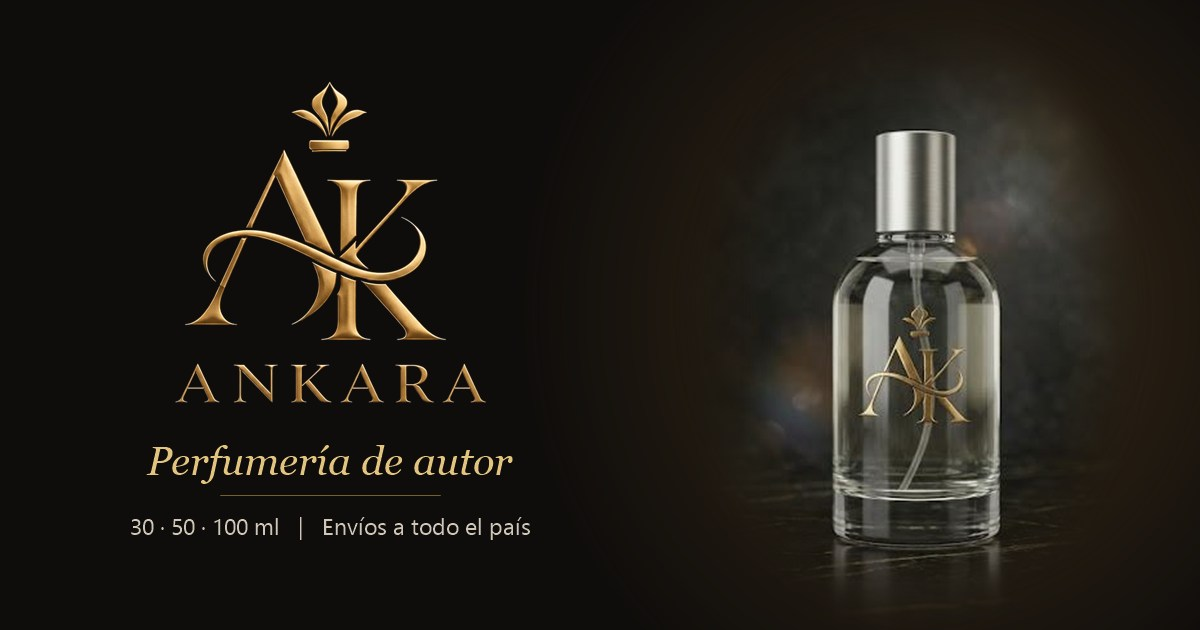
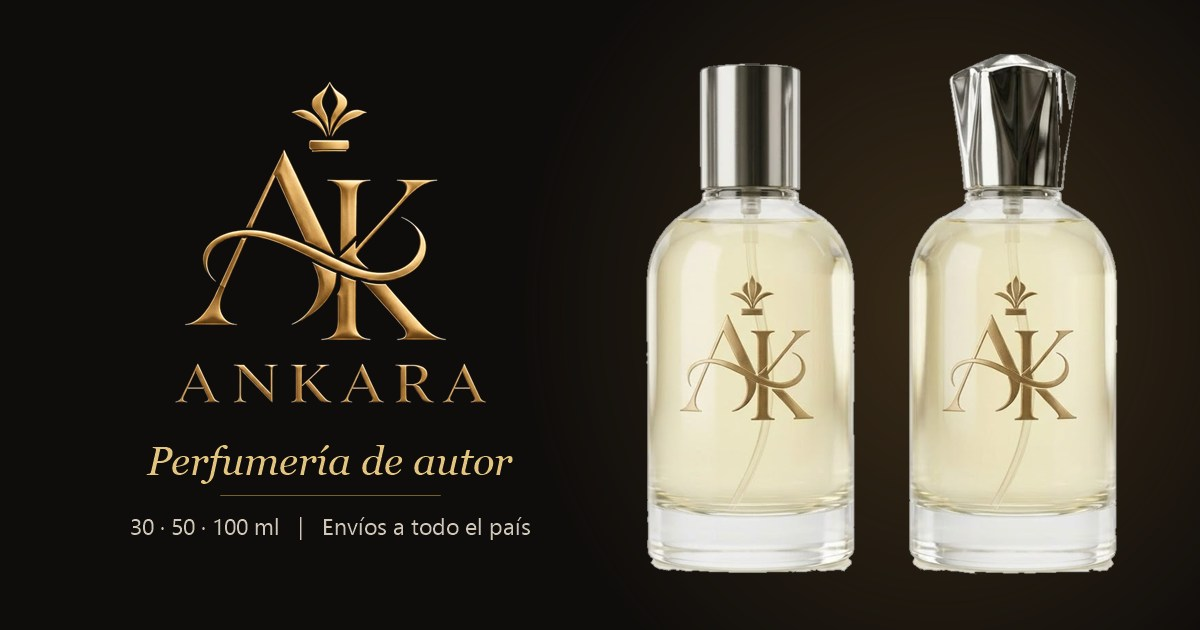
Frascos nuevos sin fondo y sin franja de beneficios ni lista de precios

Changed region(s): [[0.5242, 0.0603, 0.9558, 0.9349]]

diff --git a/src/app/app.html b/src/app/app.html
@@ -36,17 +36,8 @@
         </div>
       </div>
       <div class="hero-frasco">
-        <img src="img/frasco-ankara.jpg" alt="Frasco de perfume ANKARA" width="382" height="512" />
+        <img src="img/frascos-ankara.png" alt="Frascos de perfume ANKARA" width="725" height="790" />
       </div>
-    </div>
-  </section>
-
-  <section class="beneficios">
-    <div class="contenedor beneficios-grid">
-      <div><strong>Alta fijación</strong><span>Aromas que duran todo el día</span></div>
-      <div><strong>3 tamaños</strong><span>30 ml, 50 ml y 100 ml</span></div>
-      <div><strong>Envío nacional</strong><span>Recíbelo en la puerta de tu casa</span></div>
-      <div><strong>Asesoría</strong><span>Te ayudamos a elegir</span></div>
     </div>
   </section>
 
@@ -54,12 +45,6 @@
     <div class="contenedor">
       <p class="eyebrow">Nuestra colección</p>
       <h2>Fragancias</h2>
-
-      <ul class="lista-precios">
-        @for (t of tamanos; track t.ml) {
-          <li><span>{{ t.ml }} ml</span><strong>{{ precio(t.precio) }}</strong></li>
-        }
-      </ul>
 
       <div class="buscador">
         <svg viewBox="0 0 24 24" width="20" height="20" aria-hidden="true"><path fill="currentColor" d="M10 2a8 8 0 0 1 6.32 12.9l5.39 5.4-1.41 1.4-5.4-5.39A8 8 0 1 1 10 2zm0 2a6 6 0 1 0 0 12 6 6 0 0 0 0-12z"/></svg>
@@ -80,7 +65,7 @@
         @for (f of visibles(); track f.nombre) {
           <button class="tarjeta" (click)="abrirDetalle(f)" [attr.aria-label]="'Ver detalle de ' + f.nombre">
             <span class="tarjeta-foto">
-              <img [src]="f.imagen ?? 'img/frasco-ankara.jpg'" [alt]="f.nombre" loading="lazy" />
+              <img [src]="f.imagen ?? 'img/frascos-ankara.png'" [alt]="f.nombre" loading="lazy" />
               @if (f.etiqueta) {
                 <span class="etiqueta" [class.nuevo]="f.etiqueta === 'Nuevo'">{{ f.etiqueta }}</span>
               }
@@ -181,7 +166,7 @@
             @for (f of recomendadas(); track f.nombre; let i = $index) {
               <button class="recomendada" (click)="abrirDetalle(f)">
                 <span class="puesto">{{ i + 1 }}</span>
-                <img [src]="f.imagen ?? 'img/frasco-ankara.jpg'" [alt]="f.nombre" />
+                <img [src]="f.imagen ?? 'img/frascos-ankara.png'" [alt]="f.nombre" />
                 <span>
                   <span class="casa-mini">{{ f.casa }}</span>
                   <span class="tarjeta-nombre">{{ f.nombre }}</span>
@@ -258,7 +243,7 @@
 
       <div class="modal-cuerpo">
         <div class="modal-foto">
-          <img [src]="f.imagen ?? 'img/frasco-ankara.jpg'" [alt]="f.nombre" />
+          <img [src]="f.imagen ?? 'img/frascos-ankara.png'" [alt]="f.nombre" />
         </div>
         <div class="modal-datos">
           <p class="casa"><span>Inspiración</span>{{ f.casa }}</p>
@@ -284,7 +269,7 @@
 
       <div class="modal-compra">
         <div class="entrega">
-          <img src="img/frasco-ankara.jpg" alt="" width="56" height="75" />
+          <img src="img/frascos-ankara.png" alt="" width="64" height="70" />
           <p>Te la entregamos en nuestro frasco <strong>ANKARA</strong>. Elige el tamaño:</p>
         </div>
         <div class="tamanos" role="radiogroup" [attr.aria-label]="'Tamaño de ' + f.nombre">
@@ -304,7 +289,7 @@
           <div class="parecidas-lista">
             @for (p of parecidas(); track p.nombre) {
               <button (click)="abrirDetalle(p)">
-                <img [src]="p.imagen ?? 'img/frasco-ankara.jpg'" [alt]="p.nombre" loading="lazy" />
+                <img [src]="p.imagen ?? 'img/frascos-ankara.png'" [alt]="p.nombre" loading="lazy" />
                 <span class="casa-mini">{{ p.casa }}</span>
                 <span class="parecida-nombre">{{ p.nombre }}</span>
               </button>

diff --git a/src/app/app.scss b/src/app/app.scss
@@ -125,10 +125,10 @@
   display: flex;
   justify-content: center;
   img {
-    width: min(100%, 380px);
+    width: min(100%, 440px);
     height: auto;
-    -webkit-mask-image: radial-gradient(ellipse 60% 62% at 50% 50%, #000 55%, transparent 100%);
-    mask-image: radial-gradient(ellipse 60% 62% at 50% 50%, #000 55%, transparent 100%);
+    // Resplandor dorado suave detrás de los frascos.
+    filter: drop-shadow(0 0 40px rgba(201, 162, 75, .22)) drop-shadow(0 24px 30px rgba(0, 0, 0, .55));
     animation: flotar 7s ease-in-out infinite;
   }
 }
@@ -137,45 +137,14 @@
 @media (max-width: 760px) {
   .hero { padding: 2rem 0 4rem; }
   .hero-inner { grid-template-columns: 1fr; gap: 1rem; }
-  .hero-frasco { order: -1; img { width: 240px; } }
+  .hero-frasco { order: -1; img { width: 270px; } }
 }
-
-/* Beneficios */
-.beneficios { background: var(--carbon); color: var(--crema); padding: 1.8rem 0; }
-.beneficios-grid {
-  display: grid;
-  grid-template-columns: repeat(4, 1fr);
-  gap: 1.5rem;
-  text-align: center;
-  strong { display: block; font-family: var(--serif); font-size: 1.25rem; color: var(--oro); }
-  span { font-size: .85rem; color: #b5ab9c; }
-}
-@media (max-width: 760px) { .beneficios-grid { grid-template-columns: repeat(2, 1fr); } }
 
 /* Secciones */
 .seccion { padding: 5rem 0; h2 { font-size: clamp(2rem, 4vw, 2.8rem); } }
 
 /* Catálogo */
-.catalogo { background: var(--negro); color: var(--crema); }
-
-.lista-precios {
-  list-style: none;
-  padding: 0;
-  margin: 1rem 0 2rem;
-  display: flex;
-  flex-wrap: wrap;
-  gap: .75rem;
-  li {
-    border: 1px solid rgba(201, 162, 75, .35);
-    border-radius: 12px;
-    padding: .6rem 1.1rem;
-    display: flex;
-    gap: .7rem;
-    align-items: baseline;
-  }
-  span { color: #b5ab9c; font-size: .9rem; }
-  strong { color: var(--oro); font-weight: 600; }
-}
+.catalogo { background: var(--negro); color: var(--crema); padding-top: 2rem; }
 
 .filtros {
   display: flex;
@@ -356,7 +325,7 @@
   align-items: center;
   gap: 1rem;
   margin-bottom: 1rem;
-  img { width: 56px; height: auto; border-radius: 8px; }
+  img { width: 64px; height: auto; }
   p { margin: 0; color: #cfc6b8; font-size: .95rem; }
   strong { color: var(--oro); letter-spacing: .1em; }
 }
